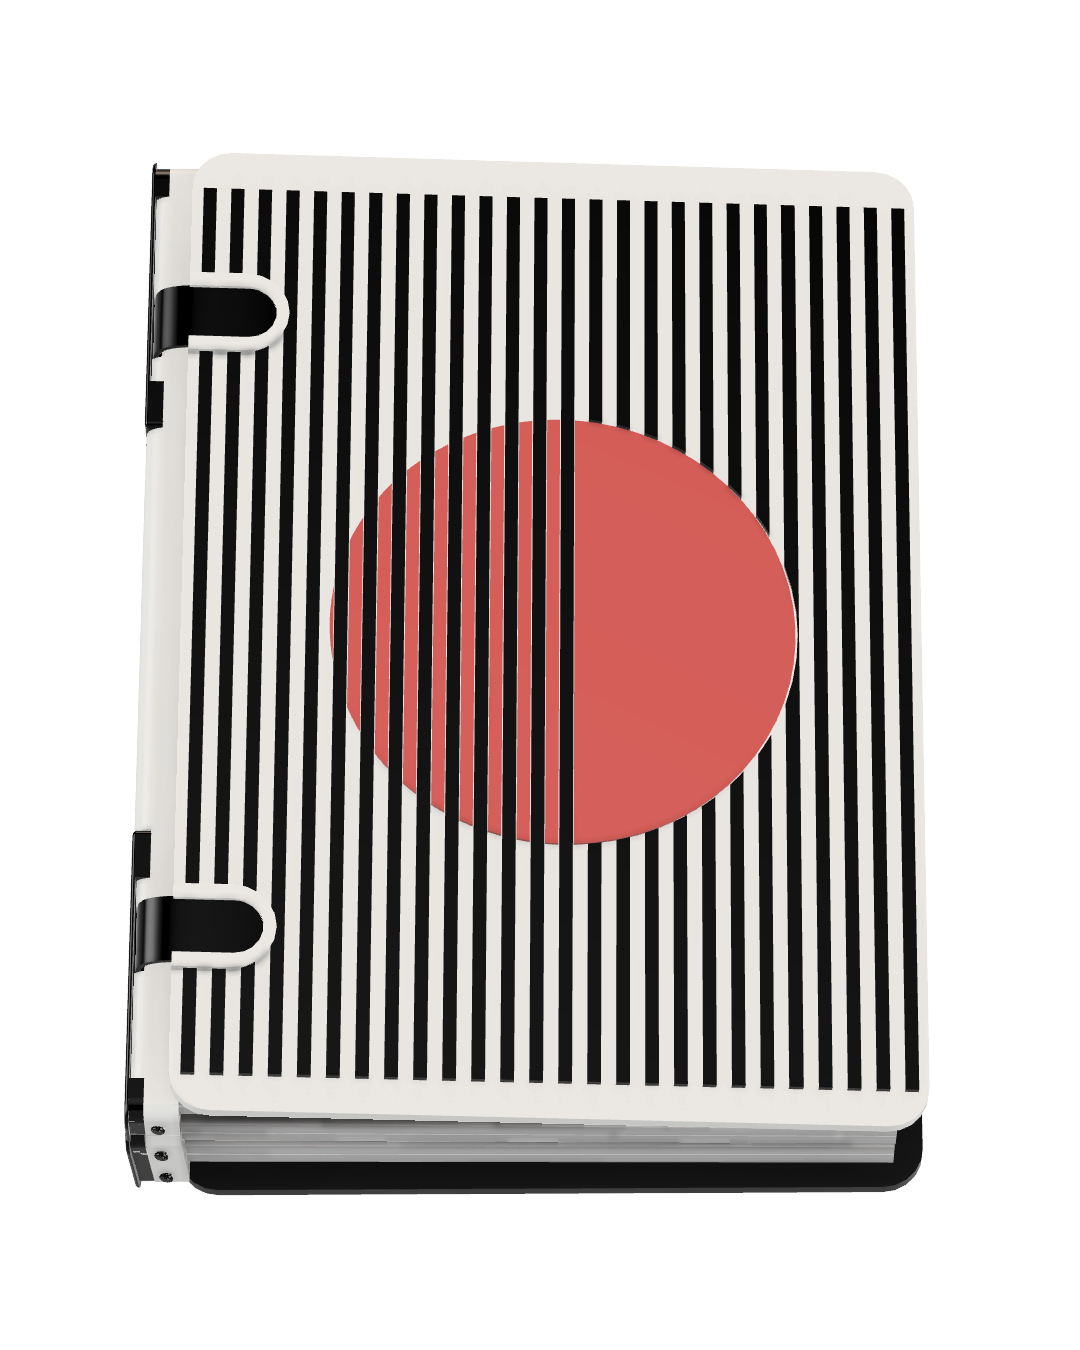
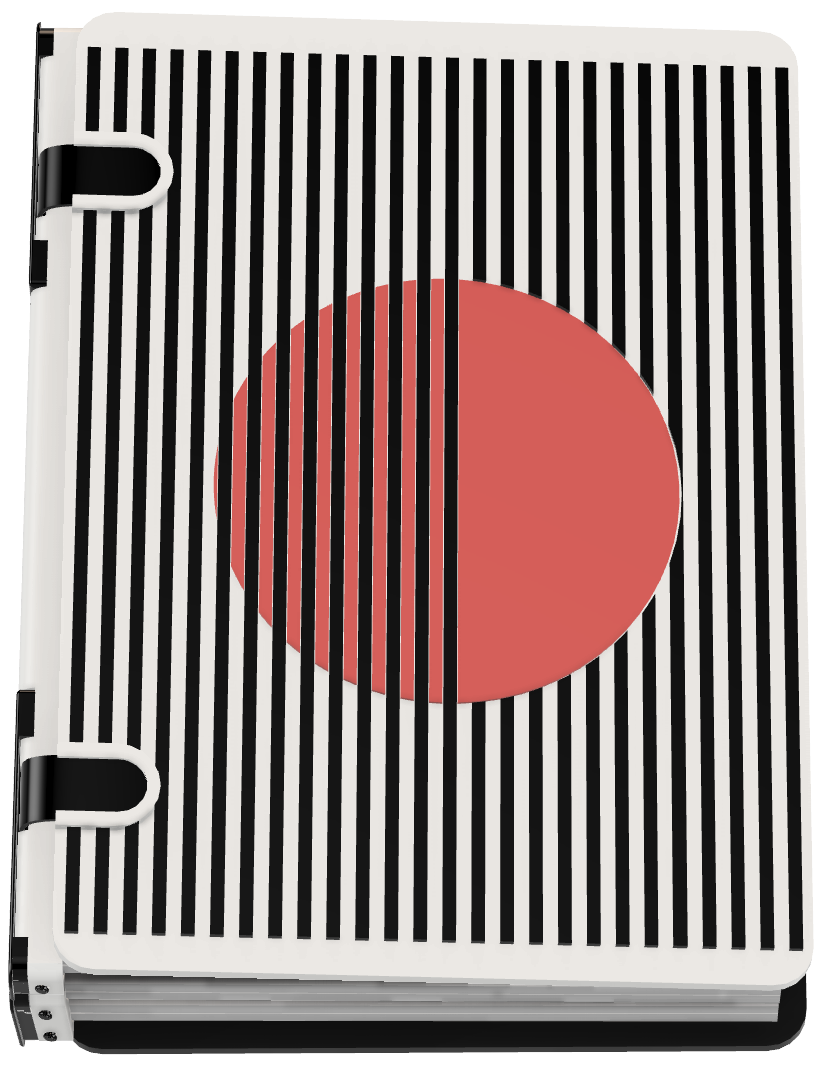
Fixed gallery and home

diff --git a/src/components/molecules/Hero3.tsx b/src/components/molecules/Hero3.tsx
@@ -63,15 +63,22 @@ const Hero3 = ({ data, opened }: { data: any[], opened: boolean }) => {
             },
           ]}
         >
-          {data.map(({ node }: { node: { name: string, relativePath: string, childImageSharp: { gatsbyImageData: IGatsbyImageData } } }, index: number) => (
+          {data.map(({ node, format, collection }: { format: string, collection: string, node: { name: string, relativePath: string, childImageSharp: { gatsbyImageData: IGatsbyImageData } } }, index: number) => (
             <div className='!flex flex-col justify-center items-center' key={index}>
-              <GatsbyImage
-                className={`w-3/4 h-auto transition-transform duration-1000 ${opened ? 'scale-100 translate-y-0' : 'scale-80 -translate-y-5'}`}
-                // ${isActive(index) ? 'scale-100 translate-y-0' : 'scale-75 translate-y-10'}
-                image={node.childImageSharp.gatsbyImageData}
-                alt={`Cover Image ${index + 1}`}
-              />
-              <p className={`text-beige transition-opacity duration-1000 ${opened ? 'opacity-100' : 'opacity-0'}`}>{node.name}</p>
+              <div
+                className={`w-3/4 h-auto transition-transform duration-1000 ${opened ? `scale-70 translate-y-0` : `scale-90 -translate-y-5`}`}
+              >
+                <GatsbyImage
+                  image={node.childImageSharp.gatsbyImageData}
+                  className={`${format === 'A5' ? `!scale-[0.9]` : format === 'A6' ? `!scale-[0.7]` : `!scale-[0.4]`}`}
+                  alt={`Cover Image ${index + 1}`}
+                />
+              </div>
+              <p className={`text-beige text-xl font-bold transition-opacity duration-1000 ${opened ? 'opacity-100' : 'opacity-0'}`}>{node.name}</p>
+              <div className={`flex gap-2 mt-2 transition-opacity duration-1000 ${opened ? 'opacity-100' : 'opacity-0'}`}>
+                <span className="text-sm bg-black text-beige px-3 border-2 border-beige py-1 rounded-full uppercase tracking-wide">{collection}</span>
+                <span className="text-sm bg-black text-beige px-3 border-2 border-beige py-1 rounded-full uppercase tracking-wide">{format}</span>
+              </div>
             </div>
           ))}
         </Slider>

diff --git a/src/components/organisms/NewHero.tsx b/src/components/organisms/NewHero.tsx
@@ -53,6 +53,18 @@ const NewHero = () => {
       return { ...e, collection, format }
     })
 
+    const additional = modEdges
+      .filter(e => (e.format || '').toUpperCase() === 'A6')
+      .map(e => ({ ...e, format: 'A5' }));
+
+    modEdges.push(...additional);
+
+    modEdges.sort((a, b) => {
+      if (a.format !== b.format) return a.format.localeCompare(b.format);
+      if (a.collection !== b.collection) return a.collection.localeCompare(b.collection);
+      return a.node.name.localeCompare(b.node.name);
+    });
+
     // for (let i = modEdges.length - 1; i > 0; i--) {
     //   const j = Math.floor(Math.random() * (i + 1))
     //     ;[modEdges[i], modEdges[j]] = [modEdges[j], modEdges[i]]
@@ -108,9 +120,10 @@ const NewHero = () => {
       </button>
 
       {galleryOpen && (
-        <div className="absolute top-16 left-1/2 transform -translate-x-1/2 flex flex-wrap justify-center gap-4 z-50 bg-black bg-opacity-70 p-3 rounded-lg">
+        <div className="absolute w-max scale-[.8] sm:scale-100 top-16 left-1/2 border-2 text-beige border-beige transform -translate-x-1/2 flex flex-wrap justify-center gap-4 z-50 bg-black bg-opacity-70 p-3 rounded-lg">
+          <p className='absolute -top-8 left-1/2 -translate-x-1/2'>Filtri</p>
           <div className="flex gap-2 flex-col items-center justify-center">
-            <p className="text-beige font-semibold mr-2">Collezioni:</p>
+            <p className="font-semibold mr-2">Collezioni:</p>
             <div className="flex gap-2 flex-wrap">
               {collections.map(col => (
                 <button
@@ -125,7 +138,7 @@ const NewHero = () => {
             </div>
           </div>
           <div className="flex gap-2 flex-col items-center justify-center ml-4">
-            <p className="text-beige font-semibold mr-2">Formati:</p>
+            <p className="font-semibold mr-2">Formati:</p>
             <div className="flex gap-2 flex-wrap">
               {formats.map(fmt => (
                 <button
